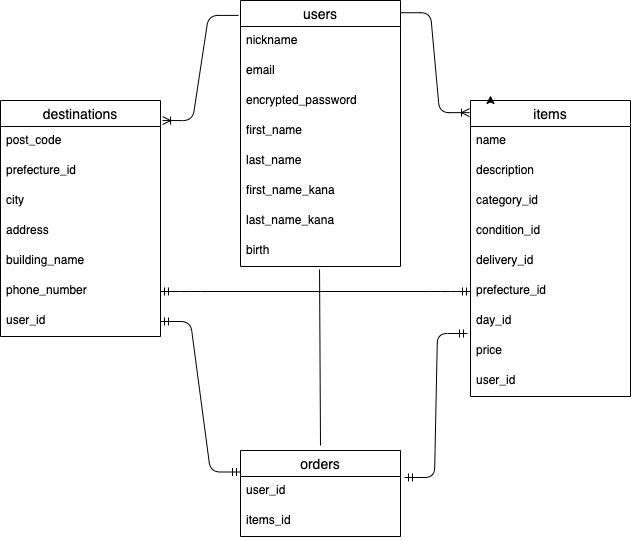
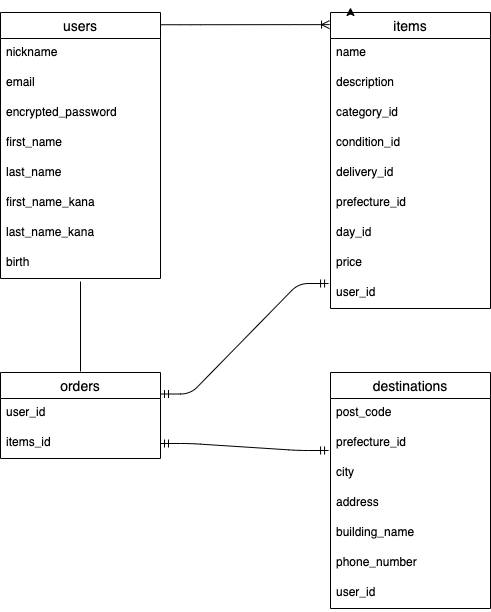
データベース設計7

diff --git a/README.md b/README.md
@@ -15,7 +15,7 @@
 
 ### Association
 has_many :items
-has_many :destinations
+
 has_one :order
 
 ## itemsテーブル
@@ -33,7 +33,7 @@ has_one :order
 | user           | references | foreign_key: true |
 
 ### Association
-has_oue :destination
+
 belongs_to :user
 has_one :order
 
@@ -50,9 +50,9 @@ has_one :order
 | user              | references | foreign_key: true |
 
 ### Association
-has_one :order
-belongs_to :user
-belongs_to :item
+belongs_to :order
+
+
 
 
 ## orderテーブル
@@ -65,4 +65,4 @@ belongs_to :item
 ### Association
 belongs_to :user
 belongs_to :item
-belongs_to :destination
+has_one :destination
